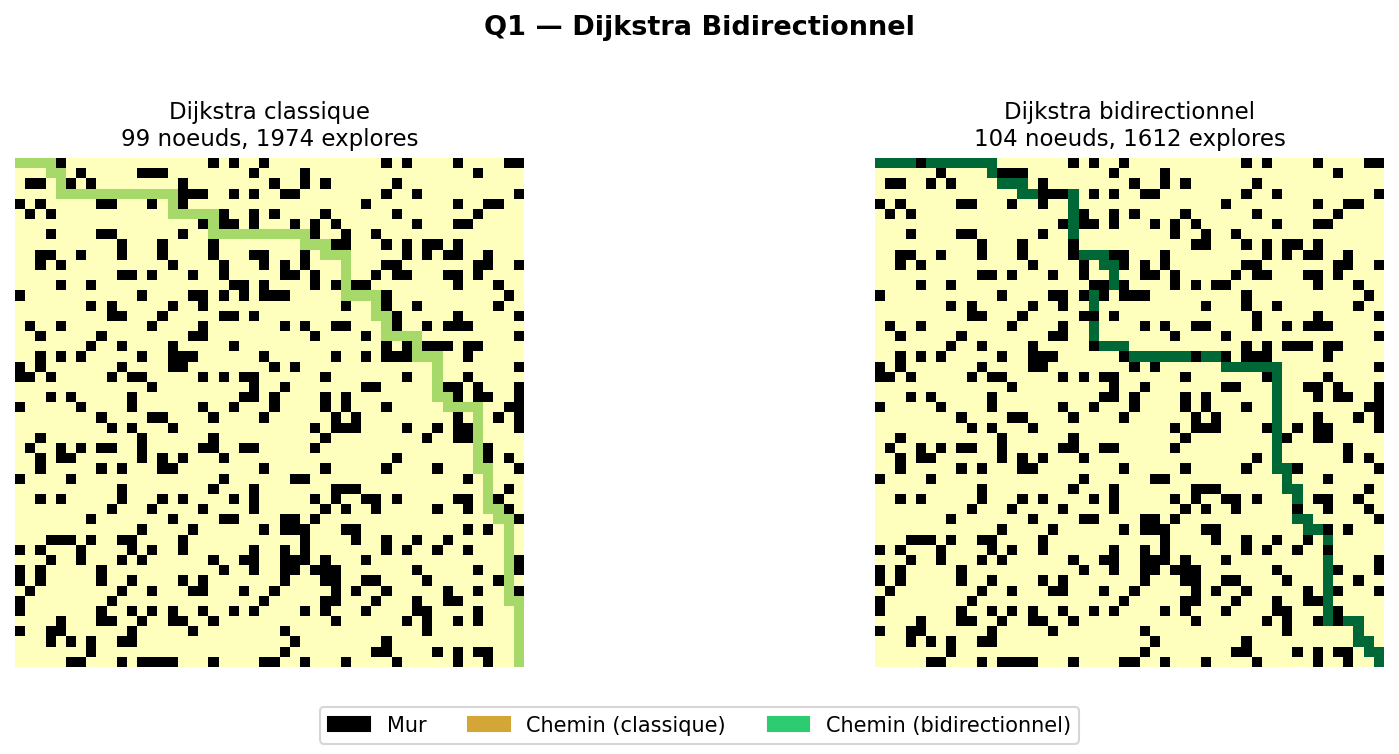
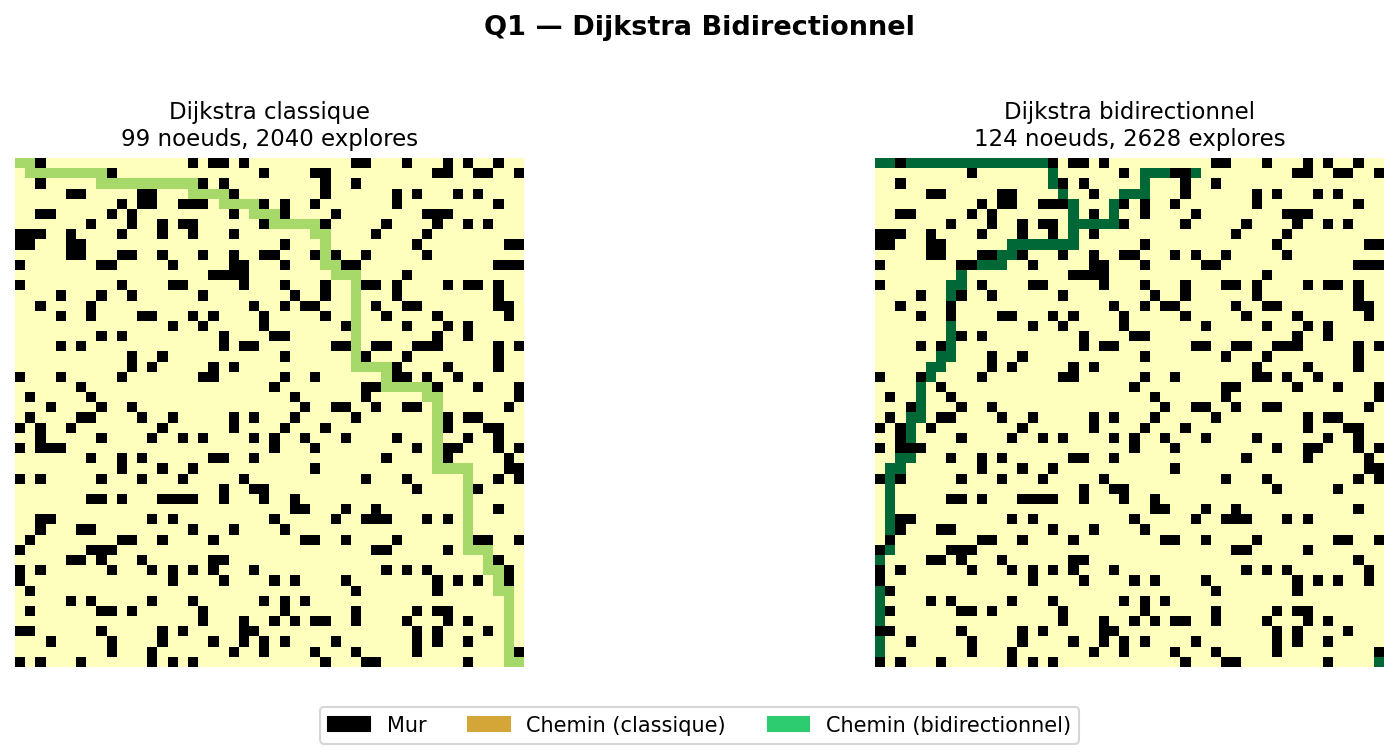
feat : ran algorithm to generate all necessary images

Changed region(s): [[0.6147, 0.1525, 1.0, 0.8846], [0.0, 0.1525, 0.3996, 0.8846]]

diff --git a/Maze_Solving.py b/Maze_Solving.py
@@ -105,6 +105,11 @@ class Maze:
             number_nodes_explored +=1
             current_entry = heapq.heappop(heap)
             current_tile = current_entry[1]
+
+            # Skip non-walkable tiles
+            if not self.is_walkeable(current_tile[0], current_tile[1]):
+                continue
+
             nodes_explored.append(current_tile)
             if(current_tile==end):
                 path = self.returnPath(origins,start,end)
@@ -136,6 +141,11 @@ class Maze:
             number_nodes_explored +=1
             current_entry = heapq.heappop(heap)
             current_tile = current_entry[1]
+
+            # Skip non-walkable tiles
+            if not self.is_walkeable(current_tile[0], current_tile[1]):
+                continue
+
             nodes_explored.append(current_tile)
             if(current_tile==end):
                 path = self.returnPath(origins,start,end)
@@ -262,12 +272,16 @@ class Maze:
             if current_tile in visited1:
                 continue
 
+            # Only process walkable tiles
+            if not self.is_walkeable(current_tile[0], current_tile[1]):
+                continue
+
             visited1.add(current_tile)
             nodes_explored1.append(current_tile)
             periphery_start = current_tile
 
             for neighbor in self.get_neighbors(current_tile[0], current_tile[1]):
-                if neighbor not in visited1:
+                if neighbor not in visited1 and self.is_walkeable(neighbor[0], neighbor[1]):
                     temp_g = g_scores1[current_tile] + self.reward_map[neighbor]
                     if neighbor not in g_scores1.keys() or temp_g < g_scores1[neighbor]:
                         origins1[neighbor] = current_tile
@@ -300,12 +314,16 @@ class Maze:
             if current_tile in visited2:
                 continue
 
+            # Only process walkable tiles
+            if not self.is_walkeable(current_tile[0], current_tile[1]):
+                continue
+
             visited2.add(current_tile)
             nodes_explored2.append(current_tile)
             periphery_end = current_tile
 
             for neighbor in self.get_neighbors(current_tile[0], current_tile[1]):
-                if neighbor not in visited2:
+                if neighbor not in visited2 and self.is_walkeable(neighbor[0], neighbor[1]):
                     temp_g = g_scores2[current_tile] + self.reward_map[neighbor]
                     if neighbor not in g_scores2.keys() or temp_g < g_scores2[neighbor]:
                         origins2[neighbor] = current_tile
@@ -339,6 +357,10 @@ class Maze:
             if current_tile in visited3:
                 continue
 
+            # Only process walkable tiles
+            if not self.is_walkeable(current_tile[0], current_tile[1]):
+                continue
+
             visited3.add(current_tile)
             nodes_explored3.append(current_tile)
 
@@ -349,7 +371,7 @@ class Maze:
                 break
 
             for neighbor in self.get_neighbors(current_tile[0], current_tile[1]):
-                if neighbor not in visited3:
+                if neighbor not in visited3 and self.is_walkeable(neighbor[0], neighbor[1]):
                     temp_g = g_scores3[current_tile] + self.reward_map[neighbor]
                     if neighbor not in g_scores3.keys() or temp_g < g_scores3[neighbor]:
                         origins3[neighbor] = current_tile
@@ -458,12 +480,16 @@ class Maze:
             if current_tile in visited1:
                 continue
 
+            # Only process walkable tiles
+            if not self.is_walkeable(current_tile[0], current_tile[1]):
+                continue
+
             visited1.add(current_tile)
             nodes_explored1.append(current_tile)
             periphery_start = current_tile
 
             for neighbor in self.get_neighbors(current_tile[0], current_tile[1]):
-                if neighbor not in visited1:
+                if neighbor not in visited1 and self.is_walkeable(neighbor[0], neighbor[1]):
                     temp_g = g_scores1[current_tile] + self.reward_map[neighbor]
                     if neighbor not in g_scores1 or temp_g < g_scores1[neighbor]:
                         origins1[neighbor] = current_tile
@@ -492,12 +518,16 @@ class Maze:
             if current_tile in visited2:
                 continue
 
+            # Only process walkable tiles
+            if not self.is_walkeable(current_tile[0], current_tile[1]):
+                continue
+
             visited2.add(current_tile)
             nodes_explored2.append(current_tile)
             periphery_end = current_tile
 
             for neighbor in self.get_neighbors(current_tile[0], current_tile[1]):
-                if neighbor not in visited2:
+                if neighbor not in visited2 and self.is_walkeable(neighbor[0], neighbor[1]):
                     temp_g = g_scores2[current_tile] + self.reward_map[neighbor]
                     if neighbor not in g_scores2 or temp_g < g_scores2[neighbor]:
                         origins2[neighbor] = current_tile
@@ -527,6 +557,10 @@ class Maze:
             if current_tile in visited3:
                 continue
 
+            # Only process walkable tiles
+            if not self.is_walkeable(current_tile[0], current_tile[1]):
+                continue
+
             visited3.add(current_tile)
             nodes_explored3.append(current_tile)
 
@@ -537,7 +571,7 @@ class Maze:
                 break
 
             for neighbor in self.get_neighbors(current_tile[0], current_tile[1]):
-                if neighbor not in visited3:
+                if neighbor not in visited3 and self.is_walkeable(neighbor[0], neighbor[1]):
                     temp_g = g_scores3[current_tile] + self.reward_map[neighbor]
                     if neighbor not in g_scores3 or temp_g < g_scores3[neighbor]:
                         origins3[neighbor] = current_tile

diff --git a/TP_EXO.py b/TP_EXO.py
@@ -181,6 +181,7 @@ def q2_grands_mazes():
         print(f"\n  Test {name.replace(chr(10), ' ')}...")
         maze = Maze(size, size, (0, 0), (size - 1, size - 1), window=None)
         maze.generateMaze(density)  # Changer la densité d'obstacles
+        maze.generateReward()  # Réinitialiser reward_map avec la nouvelle navigation_map
 
         path, t_ms, nodes = run_dijkstra_bi(maze, (0, 0), (size - 1, size - 1))
         results.append((name.split('\n')[0], size, density, len(path), nodes, t_ms))
